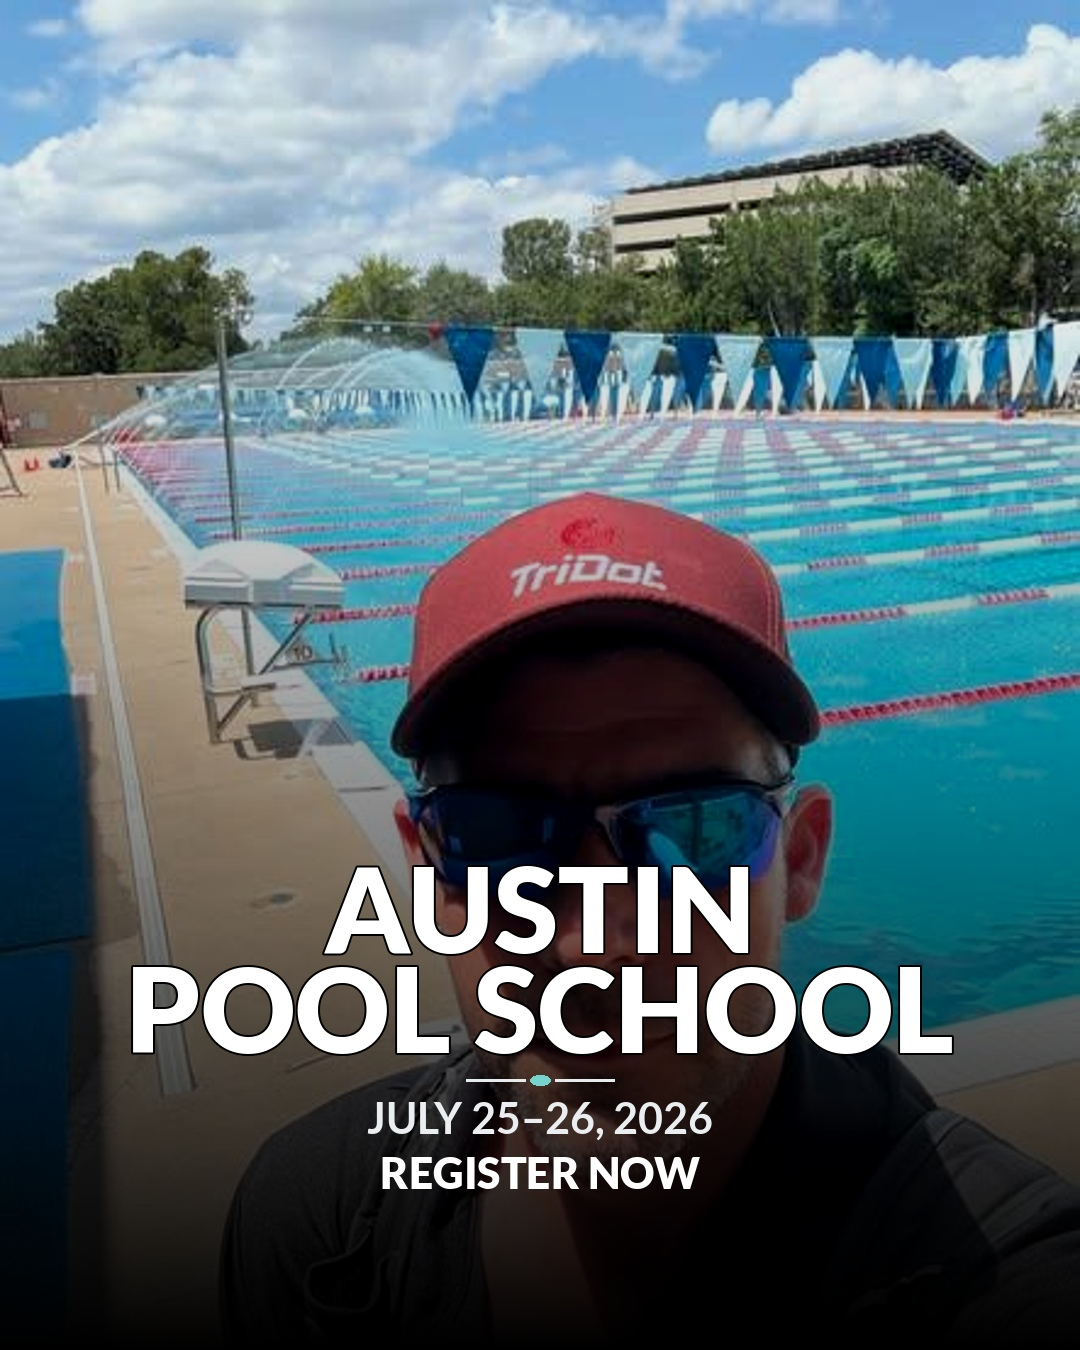
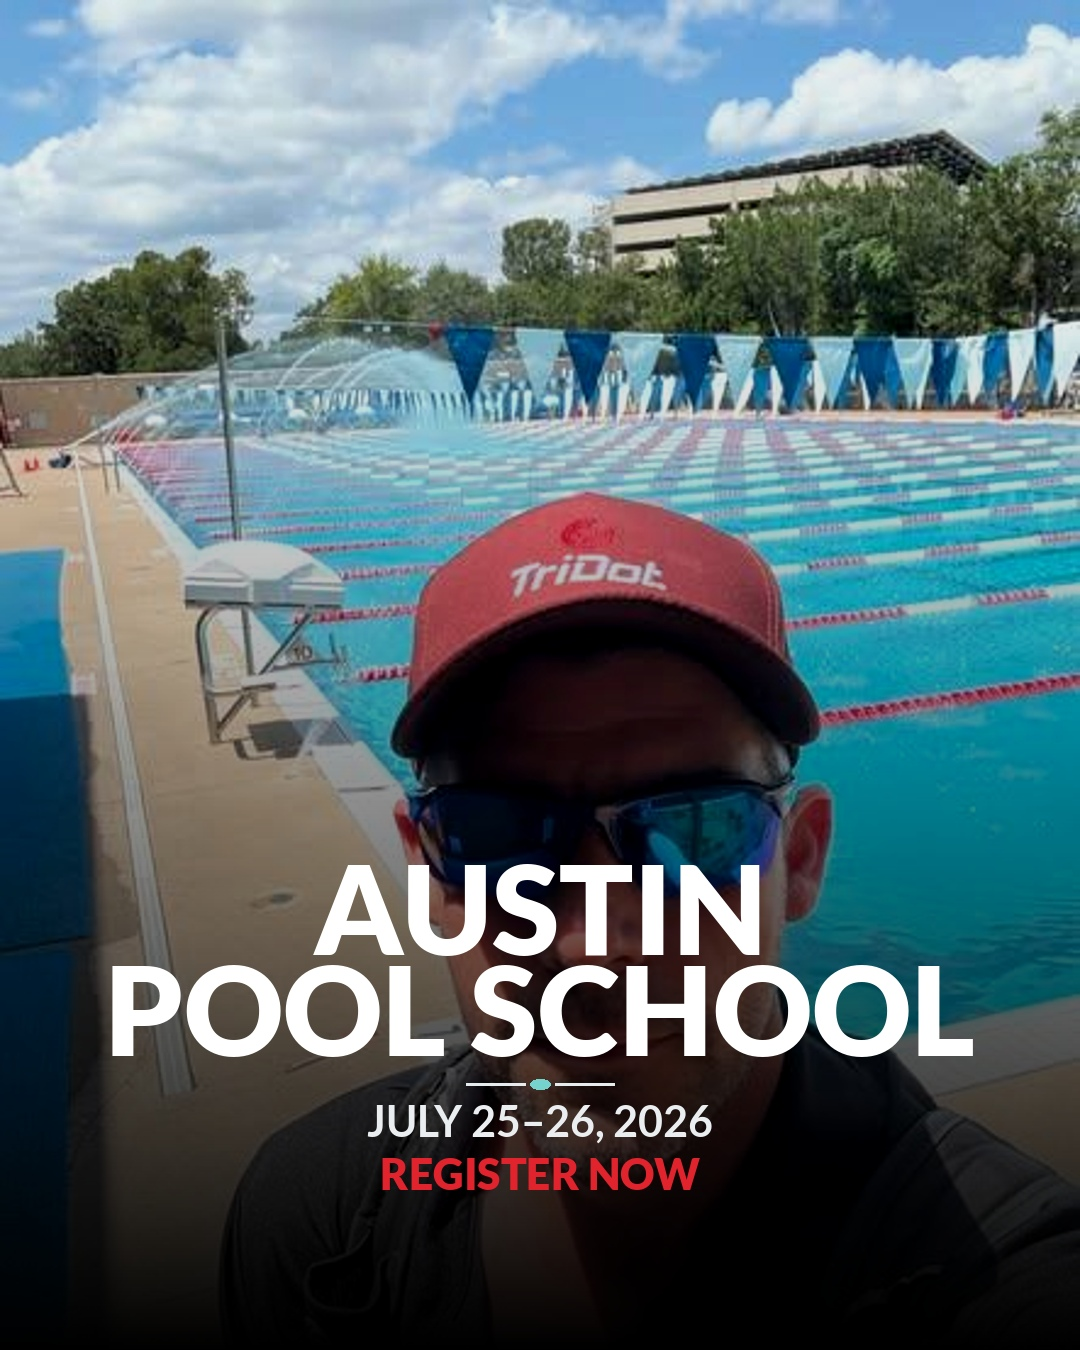
Remove headline outline and add TriDot red CTAs

Changed region(s): [[0.0917, 0.6222, 0.9167, 0.9022]]

diff --git a/austin-pool-school-review/index.html b/austin-pool-school-review/index.html
@@ -15,5 +15,5 @@ const posts=[
 ['08-detail-matters.jpg','VALUE','The details make the difference','Small technique changes can lead to meaningful progress. Get focused coaching and drills designed to help you apply it back in your own training.'],
 ['09-personal-feedback.jpg','VALUE','Real-time feedback','See it. Understand it. Practice it. Bring your swim questions to Austin and leave with practical tools for your next session.'],
 ['10-austin-register-now.jpg','EVENT PROMO','Austin Pool School: Register now','July 25–26, 2026 · Austin Aquatics and Sports Academy · $599\n\nYour next opportunity to break out of the dreaded swim plateau starts here. Register now.']
-];let i=0;const $=id=>document.getElementById(id);function render(){let p=posts[i];$('title').textContent=`Post ${i+1} of ${posts.length}`;$('graphic').src='./assets/'+p[0]+'?v=priority-images-20260710';$('headline').textContent=p[2];$('caption').textContent=p[3];$('type').textContent=p[1];$('prev').disabled=i===0;$('next').disabled=i===posts.length-1;$('thumbs').innerHTML=posts.map((x,n)=>`<button class="thumb ${n===i?'active':''}" aria-label="View post ${n+1}" onclick="go(${n})"><img src="./assets/${x[0]}?v=priority-images-20260710"></button>`).join('')};function go(n){i=n;render()}$('prev').onclick=()=>go(i-1);$('next').onclick=()=>go(i+1);document.addEventListener('keydown',e=>{if(e.key==='ArrowLeft'&&i)go(i-1);if(e.key==='ArrowRight'&&i<posts.length-1)go(i+1)});render();
+];let i=0;const $=id=>document.getElementById(id);function render(){let p=posts[i];$('title').textContent=`Post ${i+1} of ${posts.length}`;$('graphic').src='./assets/'+p[0]+'?v=clean-type-red-20260710';$('headline').textContent=p[2];$('caption').textContent=p[3];$('type').textContent=p[1];$('prev').disabled=i===0;$('next').disabled=i===posts.length-1;$('thumbs').innerHTML=posts.map((x,n)=>`<button class="thumb ${n===i?'active':''}" aria-label="View post ${n+1}" onclick="go(${n})"><img src="./assets/${x[0]}?v=clean-type-red-20260710"></button>`).join('')};function go(n){i=n;render()}$('prev').onclick=()=>go(i-1);$('next').onclick=()=>go(i+1);document.addEventListener('keydown',e=>{if(e.key==='ArrowLeft'&&i)go(i-1);if(e.key==='ArrowRight'&&i<posts.length-1)go(i+1)});render();
 </script></body></html>
